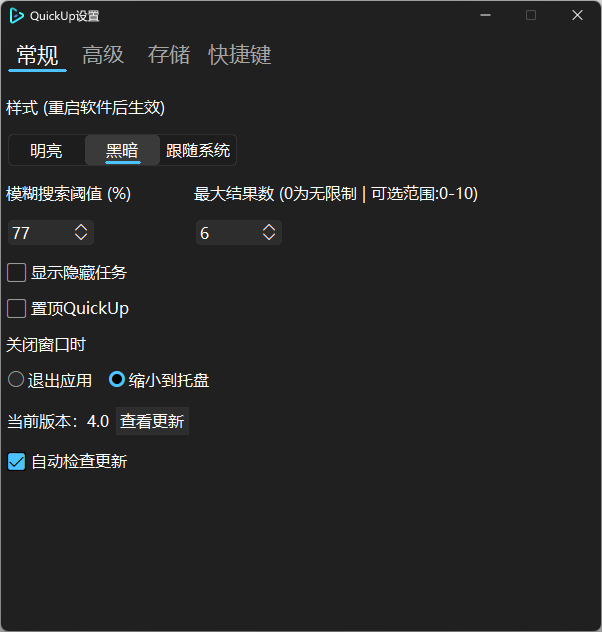
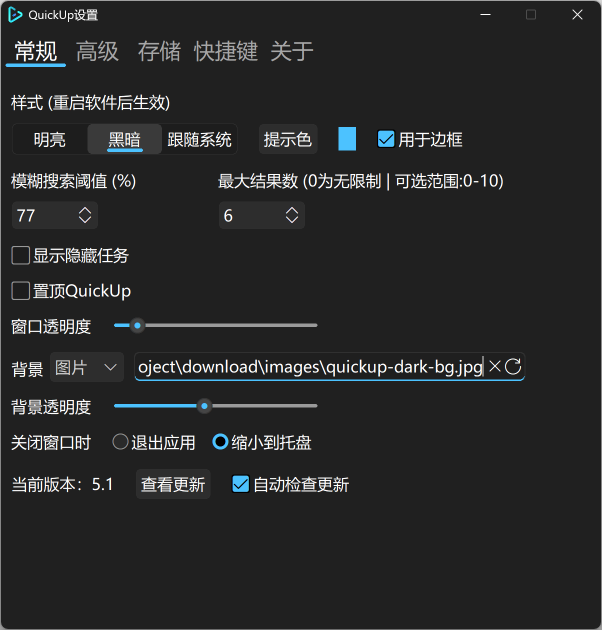
update 5.2

diff --git a/src/config.py b/src/config.py
@@ -5,8 +5,81 @@ QuickUp configuration file.
 import os
 import json
 from copy import deepcopy
+from contextlib import contextmanager
 
 from cppextend.QUmodule import detect_app_theme
+
+class DirtyDict(dict):
+    def __init__(self, *args, _on_dirty=None, **kwargs):
+        self._on_dirty = _on_dirty
+        self._dirty = False
+        self._dirty_suspended = 0
+        super().__init__()
+        if args or kwargs:
+            self._set_items(dict(*args, **kwargs), mark_dirty=False)
+        self.clear_dirty()
+
+    def _wrap_value(self, value):
+        if isinstance(value, DirtyDict):
+            value._on_dirty = self._mark_dirty
+            return value
+        if isinstance(value, dict):
+            return DirtyDict(value, _on_dirty=self._mark_dirty)
+        return value
+
+    def _mark_dirty(self):
+        if self._dirty_suspended:
+            return
+        self._dirty = True
+        if self._on_dirty is not None:
+            self._on_dirty()
+
+    def _set_items(self, items, mark_dirty=True):
+        changed = False
+        for key, value in items.items():
+            super().__setitem__(key, self._wrap_value(value))
+            changed = True
+        if changed and mark_dirty:
+            self._mark_dirty()
+
+    @property
+    def dirty(self):
+        return self._dirty
+
+    def clear_dirty(self):
+        self._dirty = False
+        for value in self.values():
+            if isinstance(value, DirtyDict):
+                value.clear_dirty()
+
+    @contextmanager
+    def suspend_dirty(self):
+        self._dirty_suspended += 1
+        try:
+            yield self
+        finally:
+            self._dirty_suspended -= 1
+
+    def replace(self, value):
+        with self.suspend_dirty():
+            super().clear()
+            if isinstance(value, dict):
+                self._set_items(value, mark_dirty=False)
+        self.clear_dirty()
+        return self
+
+    def __setitem__(self, key, value):
+        need_mark = False
+        if key not in self or self[key] != value:
+            need_mark = True
+        super().__setitem__(key, self._wrap_value(value))
+        if need_mark:
+            self._mark_dirty()
+
+    def __delitem__(self, key):
+        super().__delitem__(key)
+        self._mark_dirty()
+
 
 # 默认设置
 def _normalize_shortcut_list(value):
@@ -86,7 +159,7 @@ DEFAULT_SHORTCUTS = {
     }
 }
 settings = {
-    'general': {
+    'general': DirtyDict({
         'theme': 'light',# light dark system
         'accentColorL': '#0067c0',
         'accentColorD': '#4cc2ff',
@@ -98,8 +171,8 @@ settings = {
         'checkUpdate': True,
         'closeToTray': True,
         'transparency': 0,
-    },
-    'advanced': {
+    }),
+    'advanced': DirtyDict({
         'runWhenStart': False,
         'disAdmin': False,
         'autoSave': False,
@@ -107,8 +180,8 @@ settings = {
         'zoneRetryTimes': 20,
         'startOnAdmin': False,
         'shortcuts': deepcopy(DEFAULT_SHORTCUTS),
-    },
-    'storage': {}
+    }),
+    'storage': DirtyDict({})
 }
 
 theme_original = 'light'
@@ -128,19 +201,22 @@ def init_config():
             json.dump(settings['storage'], f, indent=4)
     else:
         with open(os.path.join(os.path.expanduser('~'), '.QuickUp', 'config-general.json'), 'r', encoding='utf-8') as f:
-            settings['general'].update(json.load(f))
+            settings['general'].replace(json.load(f))
             theme_original = settings['general']['theme']
             if theme_original == 'system':
-                settings['general']['theme'] = detect_app_theme()
+                with settings['general'].suspend_dirty():
+                    settings['general']['theme'] = detect_app_theme()
         with open(os.path.join(os.path.expanduser('~'), '.QuickUp', 'config-advanced.json'), 'r', encoding='utf-8') as f:
             advanced_data = json.load(f)
-            settings['advanced'].update(advanced_data)
-            settings['advanced']['shortcuts'] = merge_shortcuts(
+            loaded_advanced = dict(settings['advanced'])
+            loaded_advanced.update(advanced_data)
+            loaded_advanced['shortcuts'] = merge_shortcuts(
                 DEFAULT_SHORTCUTS,
                 advanced_data.get('shortcuts', {})
             )
+            settings['advanced'].replace(loaded_advanced)
         with open(os.path.join(os.path.expanduser('~'), '.QuickUp', 'config-storage.json'), 'r', encoding='utf-8') as f:
-            settings['storage'].update(json.load(f))
+            settings['storage'].replace(json.load(f))
 
 def get_shortcuts(scope, defaults):
     shortcuts = settings['advanced'].get('shortcuts', {})
@@ -151,12 +227,27 @@ def save_config():
     """
     保存配置文件
     """
-    with open(os.path.join(os.path.expanduser('~'), '.QuickUp', 'config-general.json'), 'w', encoding='utf-8') as f:
-        settings['general']['theme'] = theme_original
-        json.dump(settings['general'], f, indent=4)
+    config_dir = os.path.join(os.path.expanduser('~'), '.QuickUp')
+    general_path = os.path.join(config_dir, 'config-general.json')
+    advanced_path = os.path.join(config_dir, 'config-advanced.json')
+    storage_path = os.path.join(config_dir, 'config-storage.json')
+
+    if settings['general'].dirty:
+        with settings['general'].suspend_dirty():
+            settings['general']['theme'] = theme_original
+        with open(general_path, 'w', encoding='utf-8') as f:
+            json.dump(settings['general'], f, indent=4)
         if theme_original == 'system':
-            settings['general']['theme'] = detect_app_theme()
-    with open(os.path.join(os.path.expanduser('~'), '.QuickUp', 'config-advanced.json'), 'w', encoding='utf-8') as f:
-        json.dump(settings['advanced'], f, indent=4)
-    with open(os.path.join(os.path.expanduser('~'), '.QuickUp', 'config-storage.json'), 'w', encoding='utf-8') as f:
-        json.dump(settings['storage'], f, indent=4)
+            with settings['general'].suspend_dirty():
+                settings['general']['theme'] = detect_app_theme()
+        settings['general'].clear_dirty()
+
+    if settings['advanced'].dirty:
+        with open(advanced_path, 'w', encoding='utf-8') as f:
+            json.dump(settings['advanced'], f, indent=4)
+        settings['advanced'].clear_dirty()
+
+    if settings['storage'].dirty:
+        with open(storage_path, 'w', encoding='utf-8') as f:
+            json.dump(settings['storage'], f, indent=4)
+        settings['storage'].clear_dirty()

diff --git a/src/main.py b/src/main.py
@@ -403,15 +403,15 @@ if config.settings['general'].get('accentBorder', False):
 
 initial_tasks_view(taskView, root)# 初始化任务列表
 
-root.bind("<Control-r>", lambda e: refresh_tasks_view())
+root.bind("<Control-r>", lambda _: refresh_tasks_view())
 root.bind("<Control-n>", create_task)
 root.bind("<Control-i>", show_setting)
-root.bind("<Control-q>", lambda e: close_root_check())
+root.bind("<Control-q>", lambda _: close_root_check())
 root.bind("<Shift-Return>", run_this_task)
 root.bind("<Control-e>", edit_this_task)
 root.bind("<Up>", prev_task_view)
 root.bind("<Down>", next_task_view)
-root.bind("<FocusIn>", lambda e: taskEntry.focus_set())
+root.bind("<FocusIn>", lambda _: taskEntry.focus_set())
 root.bind("<Prior>", pageup_task_view)
 root.bind("<Next>", pagedown_task_view)
 root.bind("<Home>", home_task_view)

diff --git a/src/ui/setting.py b/src/ui/setting.py
@@ -195,6 +195,7 @@ def sel_theme(theme):
     else:
         theme = "system"
     config.theme_original = theme
+    config.settings['general']['theme'] = theme
     config.save_config()
     nowtheme = config.settings['general']['theme']
     if nowtheme == "light":
@@ -696,7 +697,7 @@ def show_setting(e):
     with open("./ui-asset/setting.xml", "r", encoding="utf-8") as f:
         uixml.loadxml(f.read())
     pivot = uixml.tags["pivot"][-2]
-    
+
     init_general()
     init_advanced()
     init_storage()

diff --git a/src/datas.py b/src/datas.py
@@ -17,7 +17,7 @@ from cppextend.QUmodule import quick_fuzz, worker_size
 import config
 
 # 版本
-version = "5.1"
+version = "5.2"
 
 scale_factor = 1.0# DPI缩放系数
 @functools.cache

diff --git a/readme.md b/readme.md
@@ -24,20 +24,18 @@ For detailed see [QuickUp's website](https://quickup.smart-space.com.cn/).
 
 ---
 
+<img src="./docs/assets/images/lightback.png" alt="lightback" style="zoom:50%;" /><img src="./docs/assets/images/darkback.png" alt="darkback" style="zoom:50%;" />
+
+---
+
 ## ✨ 核心亮点
 
 - **极简轻量**：体积小巧、低内存占用，可后台静默运行，不拖累系统性能
-
 - **场景化批量启动**：一键启动多软件、执行多命令，支持子任务、子工作区嵌套
-
-- **高度自定义**：热键、界面样式、窗口布局、任务标签、启动权限自定义
-
-- **匹配搜索**：优化模糊搜索算法，大小写忽略、精准匹配任务
-
+- **高度自定义**：热键、界面样式、应用背景、任务标签、启动权限自定义
+- **匹配搜索**：高效模糊搜索，大小写忽略、精准匹配任务
 - **拓展性强**：内置基础插件系统，支持功能拓展，适配更多使用场景
-
 - **人性化细节**：支持系统托盘后台运行、开机自启、窗口状态记录
-
 - **任务窗口组预览**：类似Windows Snap的窗口组预览、呈现与一键调度
 
 ---
@@ -60,7 +58,7 @@ For detailed see [QuickUp's website](https://quickup.smart-space.com.cn/).
 
 - 支持管理员模式启动、窗口最大化/最小化启动，适配特殊使用需求
 
-- 主窗口透明度可调，支持明暗主题、跟随系统样式
+- 主窗口透明度可调，支持明暗主题、跟随系统样式，支持背景混合
 
 - 自动过滤不可缩放窗口，优化窗口适配逻辑
 
@@ -85,7 +83,7 @@ For detailed see [QuickUp's website](https://quickup.smart-space.com.cn/).
 
 ## 📥 下载安装
 
-所有版本免费开源，可通过官方托管平台下载最新安装包与源码：
+所有版本免费使用，可通过官方托管平台下载最新安装包：
 
 - **GitHub**：[https://github\.com/smart\-space/QuickUp/releases](https://github.com/smart-space/QuickUp/releases)
 

diff --git a/docs/_posts/2026-8-6-background-layer.md b/docs/_posts/2026-8-6-background-layer.md
@@ -1,0 +1,35 @@
+---
+layout: post
+title: Background Layer
+published: True
+---
+
+# 自定义背景层
+
+QuickUp 5.2 (pro)起，`设置-常规`界面可以设置背景层样式。
+
+QuickUp应用主窗口分为三层：
+
+1. 底层，系统窗口，`窗口透明度`应用于此；
+2. 背景层，显示自定义的颜色、图片，若设置为空，则显示样式背景色；
+3. 交互层，显示交互控件，`背景透明度`应用于此。
+
+注意，背景层本身是不透明且不可设置透明度的，交互层可设置透明度看到背景。
+
+背景层设置为图片时，图片格式为`Gdiplus::Bitmap::FromFile`接受格式。
+
+---
+
+# Customize Background Layer
+
+Since QuickUp 5.2 (pro), the `Settings - General` interface now allows you to set the style of the background layer.
+
+The main window of the QuickUp application is divided into three layers: 
+
+1. The bottom layer, system window, `Window Transparency` is applied to this;
+2. The background layer, displays custom colors or images. If left blank, it shows the background color of the theme;
+3. The interaction layer, displays interaction controls. `Background Transparency` is applied to this. 
+
+**Note that** the background layer is inherently opaque and its transparency cannot be adjusted. The interactive layer, on the other hand, can have its transparency set to allow the background to be seen.
+
+When the background layer is set to an image, the image format should be the one accepted by `Gdiplus::Bitmap::FromFile`.

diff --git a/docs/_pages/document-en.md b/docs/_pages/document-en.md
@@ -10,7 +10,7 @@ permalink: /document-en/
 
 The top bar of main window:
 
-- task-search-entry: enter the name of the task to search for similar tasks. The fuzzy search algorithm in this part is implemented by `./cppextend/quickfuzz.h `. Enter `|` instead of keywords to search for tag tasks.
+- task-search-entry: enter the name of the task to search for similar tasks. The fuzzy search algorithm in this part is implemented by `./cppextend/quickfuzz.h `. Enter `|` instead of keywords to search for tag tasks. `|... |...` search for tasks under the label.
 - add-button: click it to show a new-task editor window. Then you can create a new task throw this it.
 - label-button: open the label management window.
 - setting-button: click it to show setting window of QuickUp.
@@ -149,6 +149,10 @@ It is a function like its name.
 ### Closing QuickUp to system tray
 
 It is a function like its name.
+
+### Background Layer Settings
+
+The background layer of the main window can be set to a solid color, an image, or blank. By adjusting the visibility transparency, you can blend the background and the foreground interaction layer.
 
 ### Updating
 

diff --git a/docs/_pages/document.md b/docs/_pages/document.md
@@ -9,7 +9,7 @@ permalink: /document/
 
 主窗口顶部工具栏：
 
-- 任务搜索框：输入任务的名字来搜索相似任务。该部分的模糊搜索算法由`./cppextend/quickfuzz.h`实现。输入`|`改为关键字搜索标签任务。
+- 任务搜索框：输入任务的名字来搜索相似任务。该部分的模糊搜索算法由`./cppextend/quickfuzz.h`实现。输入`|`改为关键字搜索标签任务。`|...|...`在标签下搜索任务。
 - 添加按钮：添加一个新的任务并用编辑窗口打开。
 - 标签按钮：打开标签管理窗口。
 - 设置按钮：打开设置窗口。
@@ -144,7 +144,11 @@ permalink: /document/
 
 ### 关闭到系统托盘。
 
-关闭QuickUp到系统托盘
+关闭QuickUp到系统托盘。
+
+### 背景层设置
+
+主窗口背景层可设置为纯色、图片、或空，设置可视透明度来混和背景和前景交互层。
 
 ### 更新
 
